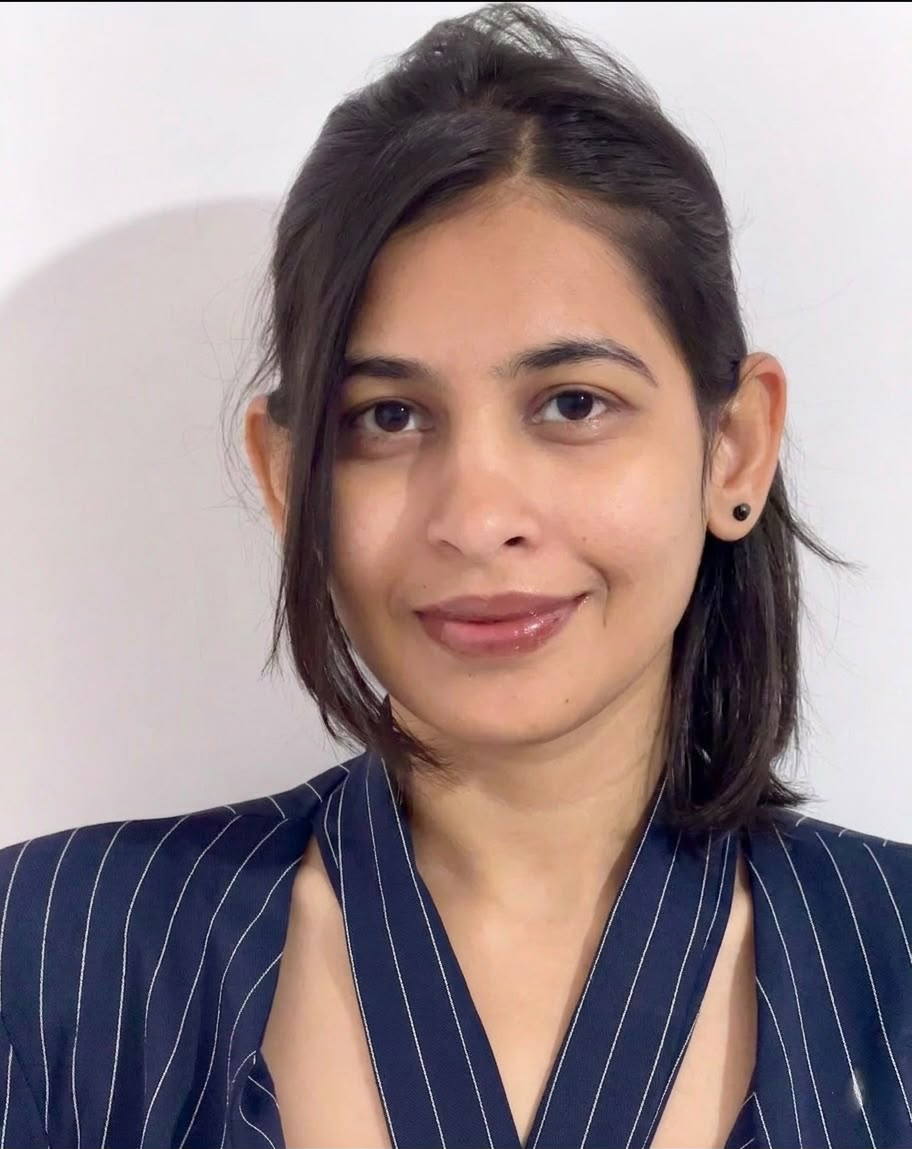
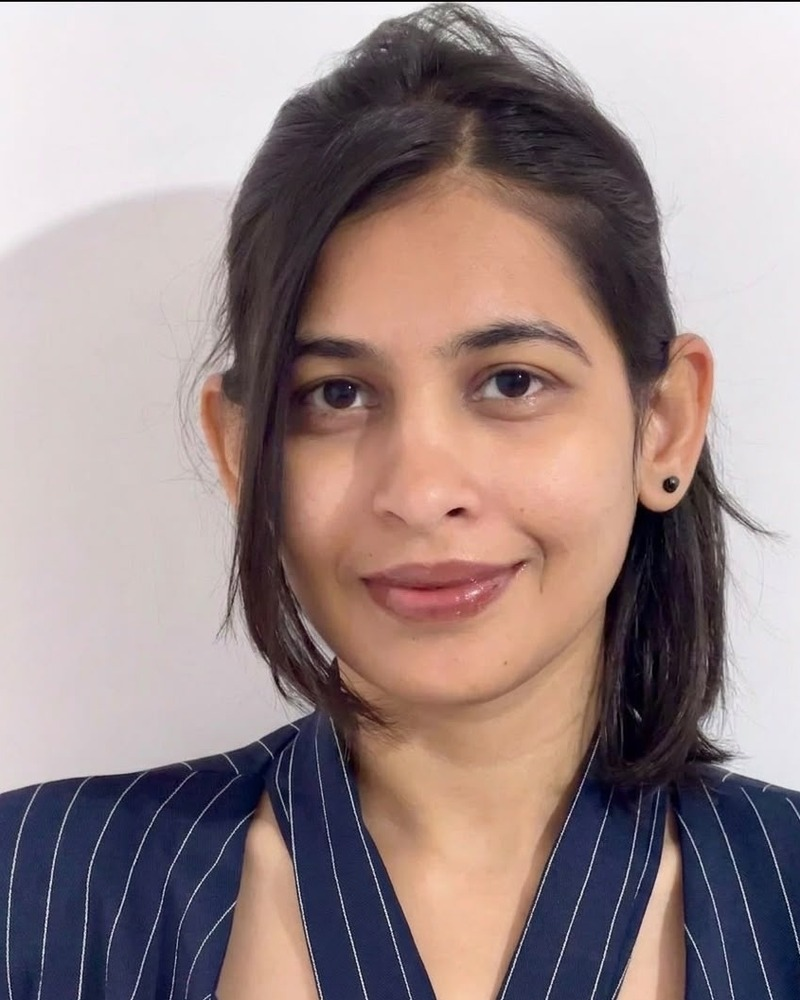
(fix): organiser cleanup

diff --git a/components/sections/OrganiserCard.tsx b/components/sections/OrganiserCard.tsx
@@ -23,14 +23,15 @@ export function OrganiserCard({ member }: { member: TeamMember }) {
         aria-haspopup="dialog"
         className="group block h-full w-full overflow-hidden rounded-3xl border border-kcd-border bg-white text-left shadow-card transition-shadow hover:shadow-lg focus-visible:outline focus-visible:outline-2 focus-visible:outline-offset-2 focus-visible:outline-kcd-primary"
       >
-        <div className="relative aspect-[4/5] w-full bg-gradient-to-br from-kcd-primary/20 via-kcd-green/15 to-kcd-orange/20">
+        <div className="relative aspect-[4/5] w-full overflow-hidden bg-gradient-to-br from-kcd-primary/20 via-kcd-green/15 to-kcd-orange/20">
           {member.photoUrl && (
             <Image
               src={member.photoUrl}
               alt={member.name}
               fill
               sizes="(min-width: 640px) 288px, 256px"
-              className="object-cover object-top transition-transform duration-300 group-hover:scale-[1.03]"
+              className="object-cover transition-transform duration-300 group-hover:scale-[1.03]"
+              style={{ objectPosition: member.photoPosition ?? 'center top' }}
             />
           )}
         </div>
@@ -44,7 +45,14 @@ export function OrganiserCard({ member }: { member: TeamMember }) {
         <div className="flex flex-col gap-5 sm:flex-row sm:items-start">
           {member.photoUrl && (
             <div className="relative h-28 w-28 shrink-0 overflow-hidden rounded-2xl bg-kcd-subtle">
-              <Image src={member.photoUrl} alt={member.name} fill sizes="112px" className="object-cover object-top" />
+              <Image
+                src={member.photoUrl}
+                alt={member.name}
+                fill
+                sizes="112px"
+                className="object-cover"
+                style={{ objectPosition: member.photoPosition ?? 'center top' }}
+              />
             </div>
           )}
           <div className="min-w-0 pr-8">

diff --git a/components/sections/OrganisersGrid.tsx b/components/sections/OrganisersGrid.tsx
@@ -7,7 +7,7 @@ import type { TeamMember } from '@/lib/content';
 
 export function OrganisersGrid({
   members,
-  previewCount = 4,
+  previewCount = 3,
 }: {
   members: TeamMember[];
   previewCount?: number;
@@ -18,9 +18,9 @@ export function OrganisersGrid({
 
   return (
     <div>
-      <ul className="grid gap-5 sm:grid-cols-2 lg:grid-cols-4">
+      <ul className="mx-auto grid max-w-5xl items-stretch gap-5 sm:grid-cols-2 lg:grid-cols-3">
         {visible.map((m) => (
-          <li key={m.slug}>
+          <li key={m.slug} className="min-w-0">
             <OrganiserCard member={m} />
           </li>
         ))}

diff --git a/lib/schema.ts b/lib/schema.ts
@@ -315,6 +315,8 @@ export const TeamFrontmatter = RenderFlag.extend({
   group: z.enum(['organizer', 'core', 'volunteer']).optional().default('volunteer'),
   credentials: z.string().optional().default(''),
   photo: z.string().optional(),
+  /** CSS object-position for the card photo, e.g. "center 28%" — tunes headroom across mixed crops. */
+  photoPosition: z.string().optional(),
   socials: z
     .object({
       twitter: z.string().url().optional(),

diff --git a/handoff.md b/handoff.md
@@ -2,7 +2,7 @@
 
 > **READ THIS FIRST.** Every Claude Code session begins here. Update this file at end of every meaningful change so the next session boots with current context. CLAUDE.md is canonical for conventions; this file is canonical for *active work*.
 
-_Last updated: 2026-07-28 (Key Dates header nav)_
+_Last updated: 2026-08-09 (Organisers 3-col grid)_
 
 ## 1. Goal
 
@@ -73,7 +73,12 @@ After pull: `pnpm install && pnpm typecheck && pnpm content:validate && pnpm bui
 
 Dev: use `pnpm dev` (runs content watcher + Next). Restart after killing stale `next` processes.
 
-## 4. Recent changes (2026-07-28)
+## 4. Recent changes (2026-08-09)
+
+38. **Organisers grid → 3 columns** — After removing Janki Chhatbar + Neel Shah, six organisers remain. `OrganisersGrid` is now `lg:grid-cols-3` (capped `max-w-5xl`) with `previewCount=3` so the first viewport is one full row.
+39. **Organiser photo alignment** — Mixed square/portrait sources caused uneven headroom under `object-cover` (Y-position can’t reframe squares in a 4:5 box). Re-cropped all six organiser JPEGs to consistent 800×1000 (4:5) framing. Optional `photoPosition` frontmatter added for future per-card tweaks.
+
+## 4b. Earlier changes (2026-07-28)
 
 37. **Key Dates header nav + fluid header** — Key Dates → `/#key-dates`. Fluid pill `max-w-[100rem]`. Inline nav only at `xl` (1280px+); iPad Pro / tablets use hamburger + Register so brand/links/CTA never overlap.
 

diff --git a/content/team/aditya-krishnakumar.md b/content/team/aditya-krishnakumar.md
@@ -5,7 +5,7 @@ company: "SentinelOne"
 group: "organizer"
 credentials: "Kubestronaut, CNCG Ahmedabad contributor"
 photo: "/images/organisers/aditya-krishnakumar.jpeg"
-order: 80
+order: 60
 socials:
     linkedin: https://www.linkedin.com/in/heyadityak
     github: https://github.com/heyadityak

diff --git a/content/team/aditya-soni.md b/content/team/aditya-soni.md
@@ -5,7 +5,7 @@ company: "SailPoint"
 group: "organizer"
 credentials: "CNCF Ambassador, CNCG Jaipur organiser"
 photo: "/images/organisers/aditya-soni.jpeg"
-order: 70
+order: 50
 socials:
     linkedin: https://www.linkedin.com/in/adityasonittyl
     github: https://github.com/adityasonittyl

diff --git a/content/team/monika-rajput.md b/content/team/monika-rajput.md
@@ -5,7 +5,7 @@ company: "AHEAD"
 group: "organizer"
 credentials: "CNCG Gurugram organiser"
 photo: "/images/organisers/monika-rajput.jpeg"
-order: 60
+order: 40
 socials:
     linkedin: https://www.linkedin.com/in/mounicarajput
     github: https://github.com/mounicarajput
